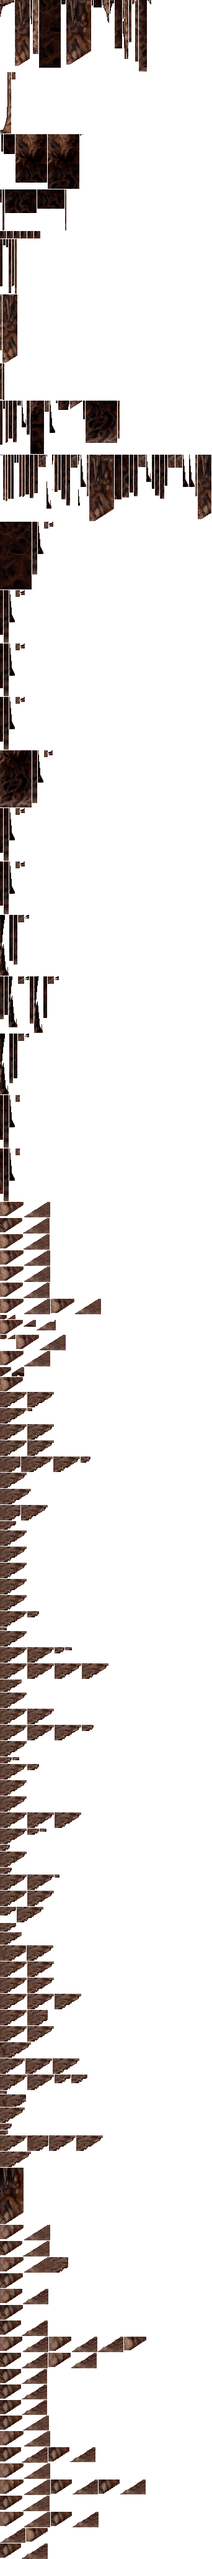
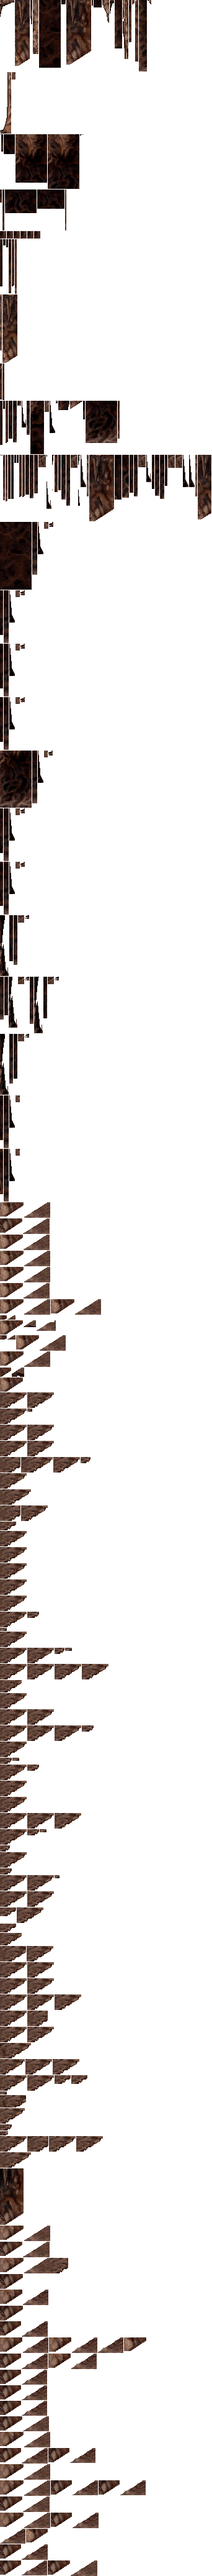
Blend approved floor joins in level 4 room 29

diff --git a/tests/test_cavern_retouch.py b/tests/test_cavern_retouch.py
@@ -18,8 +18,8 @@ from pop2.terrain import LevelMap
 class BundledCavernRetouchTests(unittest.TestCase):
     def test_level_four_bundle_is_separate_and_only_targets_approved_rooms(self):
         assets = retouch_assets(4)
-        self.assertEqual(len(assets), 97)
-        self.assertEqual({key[0] for key in assets}, {0, 1, 2, 4, 5, 6, 8, 9, 10, 11, 12, 13, 14, 15, 16, 17, 18, 19, 20, 21, 22, 23, 24, 25, 26, 27})
+        self.assertEqual(len(assets), 101)
+        self.assertEqual({key[0] for key in assets}, {0, 1, 2, 4, 5, 6, 8, 9, 10, 11, 12, 13, 14, 15, 16, 17, 18, 19, 20, 21, 22, 23, 24, 25, 26, 27, 28})
         key, (record, image) = next(iter(assets.items()))
         self.assertEqual(image.size, (record['source_rect'][2] - record['source_rect'][0],
                                       record['source_rect'][3] - record['source_rect'][1]))
@@ -166,7 +166,7 @@ class CavernRetouchTests(PreviousArtworkMixin, unittest.TestCase):
 
     def test_level_four_other_rooms_keep_their_original_wall_art(self):
         with patch('pop2.caverns.retouched_door_sprite', side_effect=lambda level, room, command, source: source):
-            for room in set(range(32)) - {0, 1, 2, 4, 5, 6, 8, 9, 10, 11, 12, 13, 14, 15, 16, 17, 18, 19, 20, 21, 22, 23, 24, 25, 26, 27}:
+            for room in set(range(32)) - {0, 1, 2, 4, 5, 6, 8, 9, 10, 11, 12, 13, 14, 15, 16, 17, 18, 19, 20, 21, 22, 23, 24, 25, 26, 27, 28}:
                 with self.subTest(room=room):
                     original = cavern_room(room, level_number=4)
                     edited = cavern_room(room, level_number=4, retouched=True)

diff --git a/pop2/cavern_retouch.py b/pop2/cavern_retouch.py
@@ -87,7 +87,7 @@ def retouched_door_sprite(level, room, command, source):
 
 def retouched_sprite(room, command, source, *, level_number=3):
     approved = (room in (0, 1, 2, 3, 4, 5, 6, 7, 8, 9, 10, 11, 12, 13, 14, 15, 16, 18, 20, 21, 23, 24, 25, 26, 27, 29, 30, 31) if level_number == 3
-                else room in (0, 1, 2, 4, 5, 6, 8, 9, 10, 11, 12, 13, 14, 15, 16, 17, 18, 19, 20, 21, 22, 23, 24, 25, 26, 27) if level_number == 4
+                else room in (0, 1, 2, 4, 5, 6, 8, 9, 10, 11, 12, 13, 14, 15, 16, 17, 18, 19, 20, 21, 22, 23, 24, 25, 26, 27, 28) if level_number == 4
                 else level_number == 5 and room in (0, 1, 3, 5, 6, 8, 10, 12, 13, 14, 15, 16, 17, 18, 21, 22, 24))
     if not approved or len(command) < 8 or command[7] != 4:
         return source

diff --git a/docs/CAVERN_ARTWORK.md b/docs/CAVERN_ARTWORK.md
@@ -444,3 +444,4 @@ the separate `rendered/level3-room30-joins-v1/` reference.
[4 lines of base64/hex data omitted]
